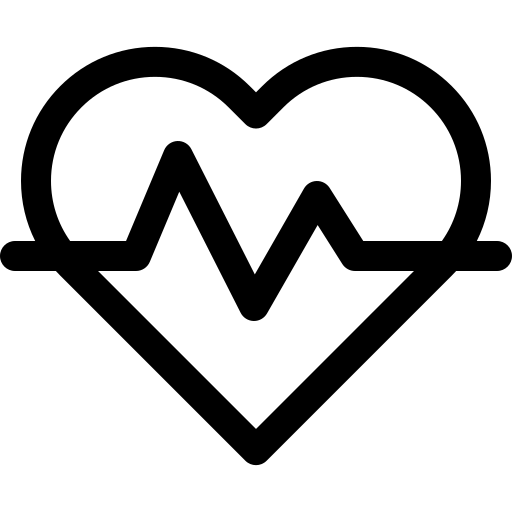
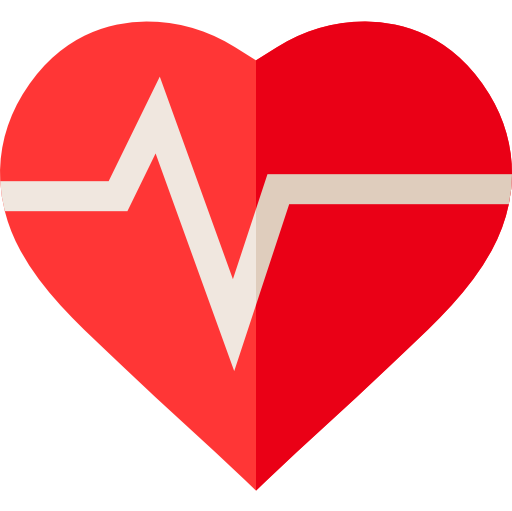
index

diff --git a/app/assets/stylesheets/pages/_task.scss b/app/assets/stylesheets/pages/_task.scss
@@ -1,5 +1,5 @@
 .task img {
-  height: 43px;
+  height: 40px;
 }
 
 
@@ -16,6 +16,7 @@
     padding-right: 10px;
     justify-content: space-between;
     font-family: 'Zen Maru Gothic', sans-serif, 500 !important;
+    box-shadow: rgba(0, 0, 0, 0.30) 0px 3px 8px !important;
 }
 
 #bin img {
@@ -34,7 +35,7 @@ body {
 .task p {
   text-align: center;
   padding-left: 10px;
-  font-size: 23px;
+  font-size: 26px;
 
 }
 
@@ -69,7 +70,9 @@ body {
   height: 43px;
 }
 
-.updatebtn {
-  padding: 10px;
-  border: 2px solid black#FF8D29;
-}
+
+
+// .btn{
+//   width: 20px;
+//   height: 20px;
+// }

diff --git a/app/models/task.rb b/app/models/task.rb
@@ -22,7 +22,7 @@ class Task < ApplicationRecord
   def logo
     case category
     when 'sport' then "sport.png"
-    when 'health' then "coeur.png"
+    when 'health' then "health.png"
     when 'hobby' then "hobby.png"
     when 'business' then "business.png"
                                                                                                                                                                                   end
